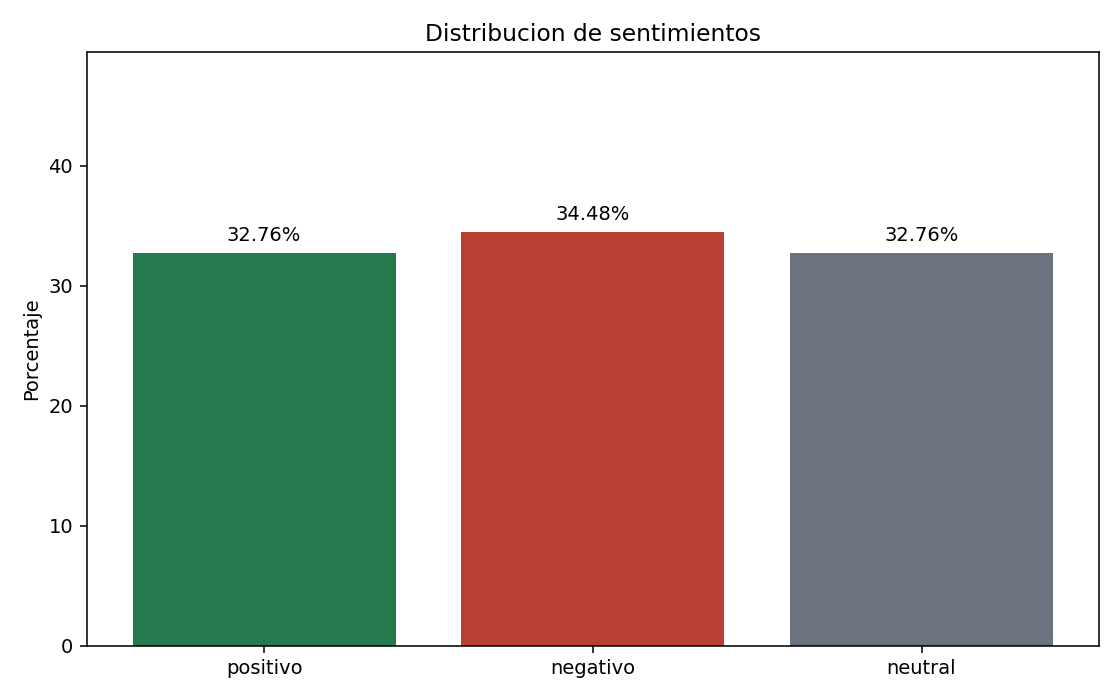
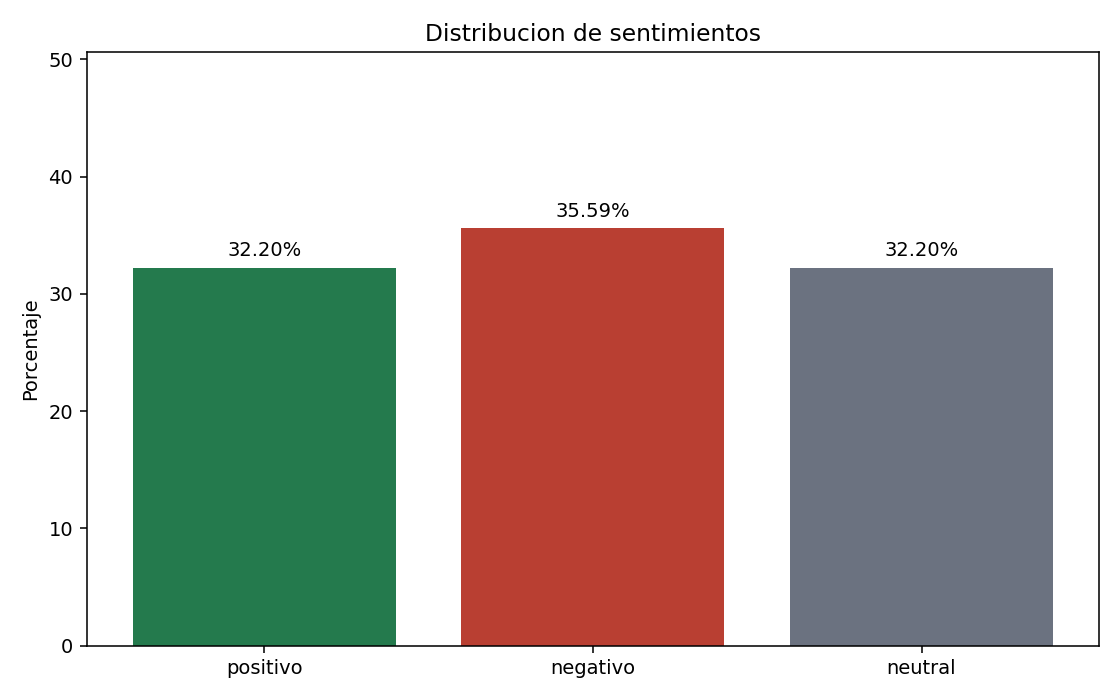
Actualizar métricas y comentarios en archivos de resultados

diff --git a/resultados/dashboard.html b/resultados/dashboard.html
@@ -24,9 +24,9 @@
   </header>
   <main>
     <section class="grid">
-      <article class="card"><span>Accuracy</span><div class="metric">26.67%</div></article>
-      <article class="card"><span>Comentarios procesados</span><div class="metric">58</div></article>
-      <article class="card"><span>Tiempo de procesamiento</span><div class="metric">0.0184s</div></article>
+      <article class="card"><span>Accuracy</span><div class="metric">20.00%</div></article>
+      <article class="card"><span>Comentarios procesados</span><div class="metric">59</div></article>
+      <article class="card"><span>Tiempo de procesamiento</span><div class="metric">0.0071s</div></article>
     </section>
     <section class="grid" style="margin-top:16px">
       <article class="card"><h2>Distribucion de sentimientos</h2><img src="distribucion_sentimientos.png" alt="Distribucion de sentimientos"></article>
@@ -39,18 +39,18 @@
         <tbody><tr><td>Esta promedio</td><td>neutral</td><td>negativo</td></tr>
 <tr><td>Esta bien, cumple su funcion</td><td>neutral</td><td>negativo</td></tr>
 <tr><td>Estoy muy satisfecho con la compra</td><td>positivo</td><td>negativo</td></tr>
-<tr><td>La entrega fue demasiado tarde</td><td>negativo</td><td>negativo</td></tr>
-<tr><td>No esta mal, pero podria mejorar</td><td>neutral</td><td>neutral</td></tr>
+<tr><td>El producto se rompio al segundo dia</td><td>negativo</td><td>positivo</td></tr>
+<tr><td>No esta mal, pero podria mejorar</td><td>neutral</td><td>negativo</td></tr>
 <tr><td>La compra fue sencilla y segura</td><td>positivo</td><td>negativo</td></tr>
 <tr><td>Tiene aspectos buenos y malos</td><td>neutral</td><td>negativo</td></tr>
-<tr><td>El producto llego danado</td><td>negativo</td><td>positivo</td></tr>
+<tr><td>El servicio fue pesimo</td><td>negativo</td><td>neutral</td></tr>
 <tr><td>No vale la pena</td><td>negativo</td><td>negativo</td></tr>
 <tr><td>La atencion fue amable y clara</td><td>positivo</td><td>negativo</td></tr>
 <tr><td>La calidad es muy buena y lo recomiendo</td><td>positivo</td><td>positivo</td></tr>
 <tr><td>Lo recomiendo totalmente</td><td>positivo</td><td>negativo</td></tr>
 <tr><td>La entrega estuvo dentro de lo esperado</td><td>neutral</td><td>negativo</td></tr>
-<tr><td>El precio es alto para tan poca calidad</td><td>negativo</td><td>positivo</td></tr>
-<tr><td>El servicio fue pesimo</td><td>negativo</td><td>neutral</td></tr></tbody>
+<tr><td>El producto llego danado</td><td>negativo</td><td>positivo</td></tr>
+<tr><td>La entrega fue demasiado tarde</td><td>negativo</td><td>negativo</td></tr></tbody>
       </table>
     </section>
   </main>
